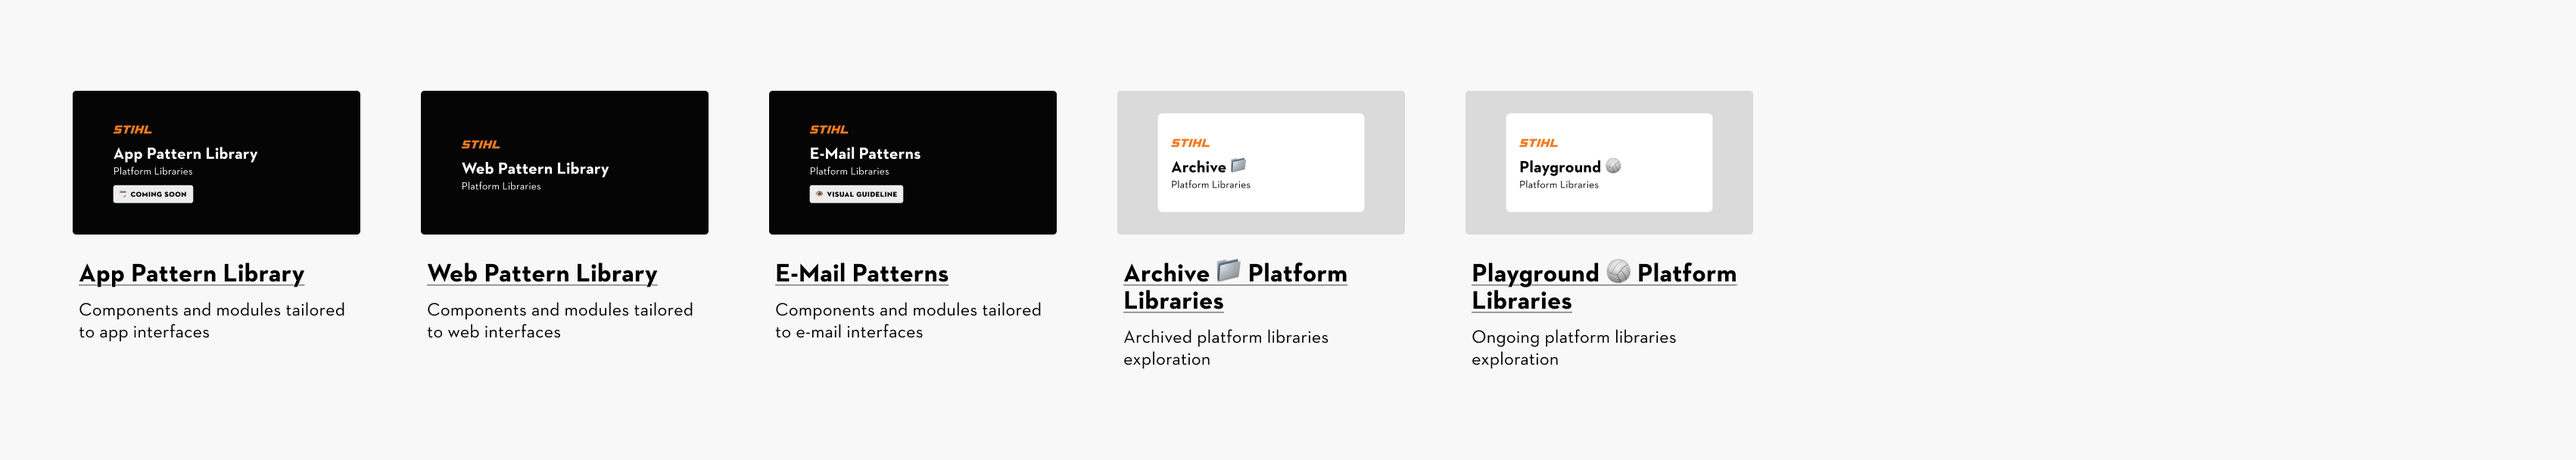
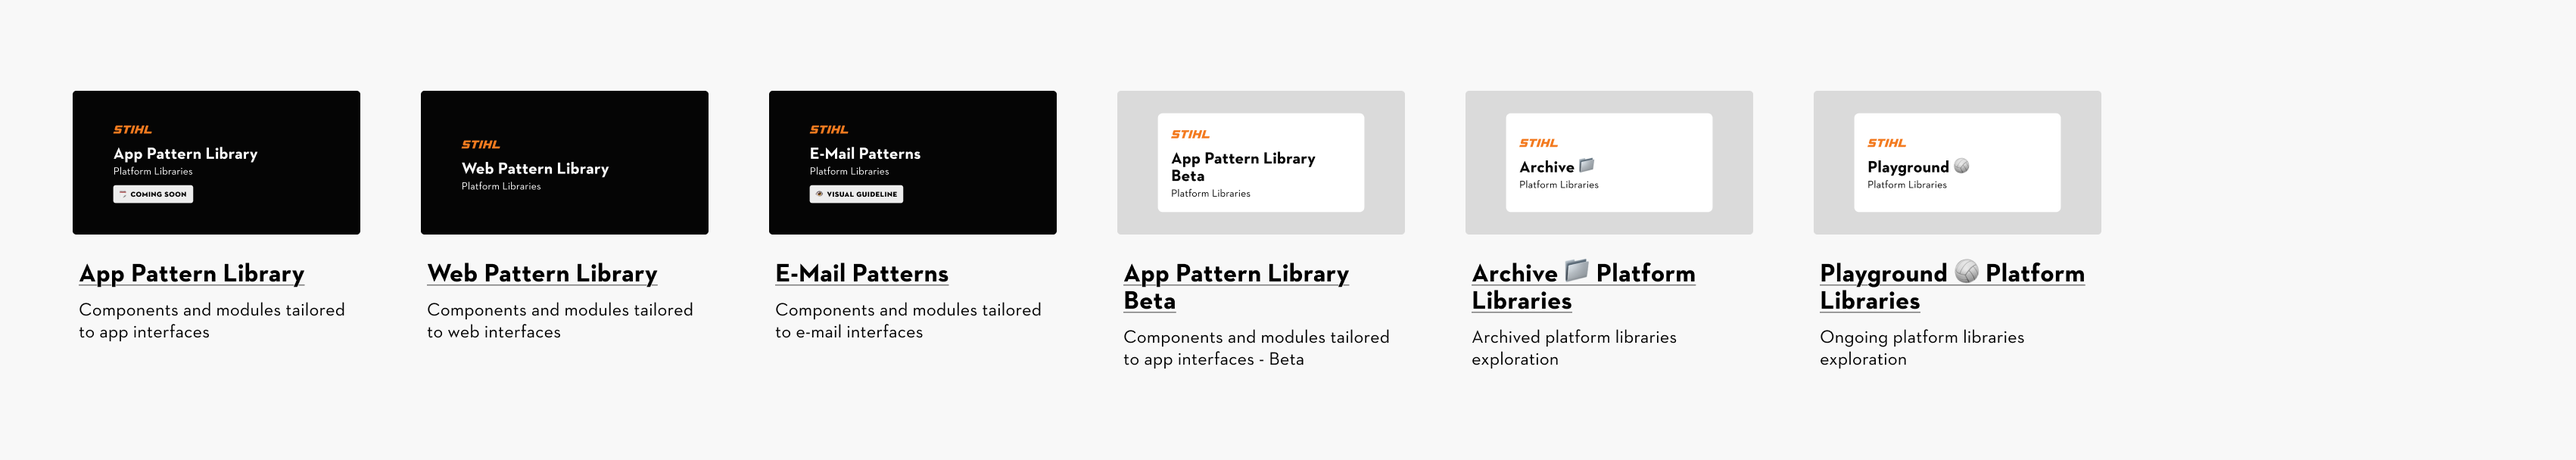
docs: sync Figma documentation

diff --git a/docs/guidelines/introduction.md b/docs/guidelines/introduction.md
@@ -13,10 +13,10 @@ figmaFile: Onboarding
 figmaProject: 04. Guidelines, Onboarding, Processes
 figmaFileKey: lLmw7PfIdKjFG4uT3B2Hyj
 figmaNodeId: 356:1729
-figmaVersion: "2414601641067527736"
+figmaVersion: "2425037126324865183"
 figmaVersionLabel: ""
-figmaVersionCreatedAt: 2026-10-26T09:28:34Z
-syncedAt: 2026-11-05T19:52:20.129Z
+figmaVersionCreatedAt: 2026-11-23T12:30:49Z
+syncedAt: 2026-11-23T12:31:03.572Z
 sourceUrl: https://www.figma.com/design/lLmw7PfIdKjFG4uT3B2Hyj?node-id=356-1729
 ---
 
@@ -78,7 +78,7 @@ Platform-specific libraries with tailored components and modules designed for th
 
 ![03. Platform Libraries](introduction/03-platform-libraries-371-708.png)
 
-_Figure: Five library cover cards. Three black cards: "App Pattern Library" with a "Coming soon" tag (Components and modules tailored to app interfaces), "Web Pattern Library" (Components and modules tailored to web interfaces) and "E-Mail Patterns" with a "Visual guideline" tag (Components and modules tailored to e-mail interfaces). Two grey cards: "Archive Platform Libraries" (Archived platform libraries exploration) and "Playground Platform Libraries" (Ongoing platform libraries exploration)._
+_Figure: Six cover thumbnails representing different platform libraries and miscellaneous categories within the STIHL Design System. Each thumbnail includes a title and a brief description of its content, such as "App Pattern Library" with "Components and modules tailored to app interfaces," and "Web Pattern Library" with "Components and modules tailored to web interfaces." Additionally, there are thumbnails for "E-Mail Patterns," "App Pattern Library Beta," "Archive Platform Libraries," and "Playground Platform Libraries," each with specific icons and descriptions indicating their purpose and status, such as "Archived platform libraries exploration" and "Ongoing platform libraries exploration._
 
 ### 04. Guidelines, Onboarding, Process
 
@@ -163,6 +163,9 @@ All styles and variables currently used in the STIHL Design System libraries:
 - [Texts (styles)](https://www.figma.com/design/d9wrOp4aCplDsV9AVC87Xn/Typography-%F0%9F%85%B0%EF%B8%8F?m=auto&t=BeEhj6WvByw9x6HJ-6)
 - [Shadows (styles)](https://www.figma.com/design/UYHZEckQObDvLuuRoMP8ps/Styles-%F0%9F%AA%AD?m=auto&t=BeEhj6WvByw9x6HJ-6)
 - [Layout grids (styles)](https://www.figma.com/design/JyyYtoCYbtJrzqHs38OXSQ/Grid-%26-Spacing-%F0%9F%A7%AE?m=auto&t=BeEhj6WvByw9x6HJ-6)
+- [Motion (styles)](https://www.figma.com/design/UYHZEckQObDvLuuRoMP8ps/Styles-%F0%9F%AA%AD?node-id=1-148&p=f&t=hEJgLSckrLa72kOl-0)
+- [Radius (varaibles)](https://www.figma.com/design/UYHZEckQObDvLuuRoMP8ps/Styles-%F0%9F%AA%AD?node-id=59-2801&p=f&t=hEJgLSckrLa72kOl-0)
+- [Border Width (tokens)](https://www.figma.com/design/UYHZEckQObDvLuuRoMP8ps/Styles-%F0%9F%AA%AD?node-id=2106-37&p=f&t=hEJgLSckrLa72kOl-0)
 
 When selecting an object, you can adjust its properties in the **right sidebar** by changing, adding, or removing styles and variables.
 
@@ -231,27 +234,27 @@ Every sprint has **several meetings**. Some are only for the sprint team, some a
 
 #### Sprint Review
 
-- MCX makes a preselection of which tasks should be processed in the upcoming sprint.
+- PO makes a preselection of which tasks should be processed in the upcoming sprint.
 - The selection is based on the ‘Roadmap - Design System’ and priority, available resources , stakeholder needs and information content in the ticket.
 - The pre selected scope will be discussed with the sprint team and adapted if necessary.
 
 - At the end of the sprint, the status and all results of the tasks are presented by the sprint team.
-- Designer/Devs report the status of the tickets to MCX/POs on an early stage, so the agenda can be made.
-- Tasks are approved by MCX/POs and appropriate stakeholders.
+- Designer/Devs report the status of the tickets to PO on an early stage, so the agenda can be made.
+- Tasks are approved by PO and appropriate stakeholders.
    - If a task cannot be approved, then the task is moved to the next sprint or, if necessary, to the backlog.
    - If a change request is discussed, a new task is created.
 
 #### Sprint Check-In
 
-- Twice in one sprint, there is a feedback loop (if needed) called Sprint Check-In.
-- Design and Dev reports status/need for clarification to MCX at an early stage.
-- MCX plans a corresponding agenda and invites the relevant stakeholders and task creators to clarify questions and provide feedback, which is provided in the tickets.
+- One time in a sprint, there is a feedback loop (if needed) called Sprint Check-In.
+- Design and Dev reports status/need for clarification to PO at an early stage.
+- PO plans a corresponding agenda and invites the relevant stakeholders and task creators to clarify questions and provide feedback, which is provided in the tickets.
 - If stakeholders/creators cannot attend, they must seek clarification elsewhere.
-   - If this is not possible, necessary decisions are made by the MCX alone or the task is postponed.
+   - If this is not possible, necessary decisions are made by the PO alone or the task is postponed.
 
-#### Sprint Refinement
+#### Sprint / Backlog Refinement
 
-- There is a dedicated meeting for backlog refinement between POs, designers and devs and there is a continuous refinement that runs in parallel.
+- There is a dedicated meeting for backlog refinement between PO, designers and devs and there is a continuous refinement that runs in parallel.
 - Everyone who creates a task must ensure that all the necessary information for processing the task is noted in the task before the task is processed in a sprint.
 - If there are conceptual questions to be clarified, then the task creator and sprint team must clarify these before planning in order to avoid long discussions in planning.
    - Low-fidelity concept and/or example screenshots in the task before planning.
@@ -260,7 +263,7 @@ Every sprint has **several meetings**. Some are only for the sprint team, some a
 #### Sprint Work Session
 
 - Twice or three times in one sprint, there is a working meeting called Sprint Work Session.
-- Design and Dev reports status/need for clarification to MCX at an early stage.
+- Design and Dev reports status/need for clarification to PO at an early stage.
 - The entire design system team continues to work together on the topic and clarifies open points together.
 
 #### Sprint Retro
@@ -268,6 +271,13 @@ Every sprint has **several meetings**. Some are only for the sprint team, some a
 - A Sprint Retro is also held after a Sprint Review.
 - The Design System Team participates
 - Changes to the process are discussed and implemented.
+
+#### Sprint - Consultation Hour
+
+- In the sprint, there will be an open office hour where stakeholders can place their questions
+- Topics can be reported in advance
+- There are 4 slots within the hour.
+- If no topics are reported, the meeting will be canceled.
 
 #### Process
 
@@ -316,7 +326,7 @@ As part of the sprint process, there are different roles with different tasks an
 #### Not in Scope
 
 - Providing of new components as Figma Design and Code in Storybook.
-- Additions and extensions of the libraries. \>\> If required and after review by MCX, creation of component variants for special requirements possible
+- Additions and extensions of the libraries. \>\> If required and after review by the Design System PO, creation of component variants for special requirements possible
 - Addition and optimization of documentation / provision of patterns / components (e.g. modular structure, dos & don’ts, guidelines).
 
 - Project and concept work (e.g. consultant, design surveys, usability tests...etc.).
@@ -364,6 +374,29 @@ A **design task or component** is considered **Done** and **Accepted** when the 
 - **Prepare Release Notes:** Update version number, release date, and sprint name
 - **Publish Library:** Make the latest version of the Figma Pattern Library available
 - **Review and Update Deprecated Elements:** Identify outdated components and apply necessary updates
+
+#### Process
+
+### Design System usage rules
+
+#### If thes Design System can be used, it mus tbe used!
+
+**Adopt pragmatically**
+
+- Use existing components even if the fit is not yet perfect
+- 80/20 rule - 80% now, improve the remaining 20% later
+- Make it work now, make it better later
+
+**Defined excaptions**
+
+- If the used framework of the project is not provided by the Design System, then at least the Design System must be used
+- It doesn’t have to be used if the project is already (almost) finished and no redesign is pending
+
+**Governance**
+
+- Any non-use must be discussed and assessed with the Design System Team, as feedback and improvement potential
+
+#### Process
 
 ## Contribute
 

diff --git a/docs/index.md b/docs/index.md
@@ -1708,7 +1708,7 @@ Keywords: tooltip, hint, info bubble.
 Keywords: onboarding, introduction, process, contribution, figma file structure, getting started.
 
 - Document: [guidelines/introduction.md](guidelines/introduction.md)
-- Figma: [Onboarding](https://www.figma.com/design/lLmw7PfIdKjFG4uT3B2Hyj?node-id=356-1729) (unpublished state, 2026-10-26)
+- Figma: [Onboarding](https://www.figma.com/design/lLmw7PfIdKjFG4uT3B2Hyj?node-id=356-1729) (unpublished state, 2026-11-23)
 - Chapters:
   - [Introduction](guidelines/introduction.md#introduction)
     - [Introduction](guidelines/introduction.md#introduction-1)
@@ -1735,6 +1735,7 @@ Keywords: onboarding, introduction, process, contribution, figma file structure,
     - [Roles](guidelines/introduction.md#roles)
     - [Design Process Scope](guidelines/introduction.md#design-process-scope)
     - [Definition of Done & Acceptance Criteria](guidelines/introduction.md#definition-of-done-acceptance-criteria)
+    - [Design System usage rules](guidelines/introduction.md#design-system-usage-rules)
   - [Contribute](guidelines/introduction.md#contribute)
     - [Contribute](guidelines/introduction.md#contribute-1)
     - [Get involved](guidelines/introduction.md#get-involved)
